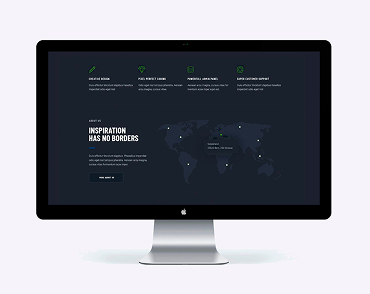
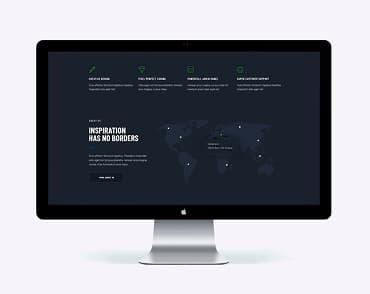
optimized all images

diff --git a/style.css b/style.css
@@ -79,7 +79,7 @@ a {
   display: block;
   width: 270px;
   height: 120px;
-  background-image: url(./Group\ 1.png);
+  background-image: url(./Group\ 1.jpg);
   background-size: cover;
   margin-bottom: 10px;
 }
@@ -89,7 +89,7 @@ a {
   display: block;
   width: 270px;
   height: 120px;
-  background-image: url(./Group\ 2.png);
+  background-image: url(./Group\ 2.jpg);
   background-size: cover;
   margin-bottom: 10px;
 }
@@ -99,7 +99,7 @@ a {
   display: block;
   width: 270px;
   height: 120px;
-  background-image: url(./Group\ 3.png);
+  background-image: url(./Group\ 3.jpg);
   background-size: cover;
   margin-bottom: 10px;
 }
@@ -110,7 +110,7 @@ a {
   width: 270px;
   height: 120px;
   margin: 0 auto;
-  background-image: url(./Group\ 4.png);
+  background-image: url(./Group\ 4.jpg);
   background-size: cover;
   margin-bottom: 10px;
 }

diff --git a/index1.html b/index1.html
@@ -59,8 +59,8 @@
         </center>
         <ul class="img-list">
             <li class="img-list-li"><img src="box 1.jpg" alt="Кодинг"></li>
-            <li class="img-list-li"><img src="box 2.png" alt="Маркетинг"></li>
-            <li class="img-list-li"><img src="box 3.png" alt="Дизайн"></li>
+            <li class="img-list-li"><img src="box 2.jpg" alt="Маркетинг"></li>
+            <li class="img-list-li"><img src="box 3.jpg" alt="Дизайн"></li>
         </ul>
       </section>
       </div>
